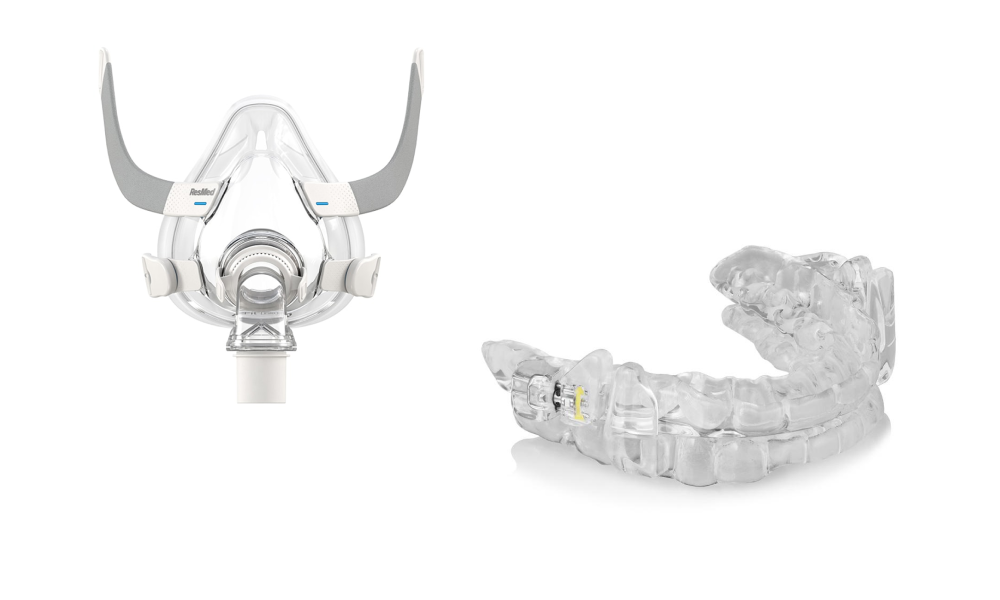
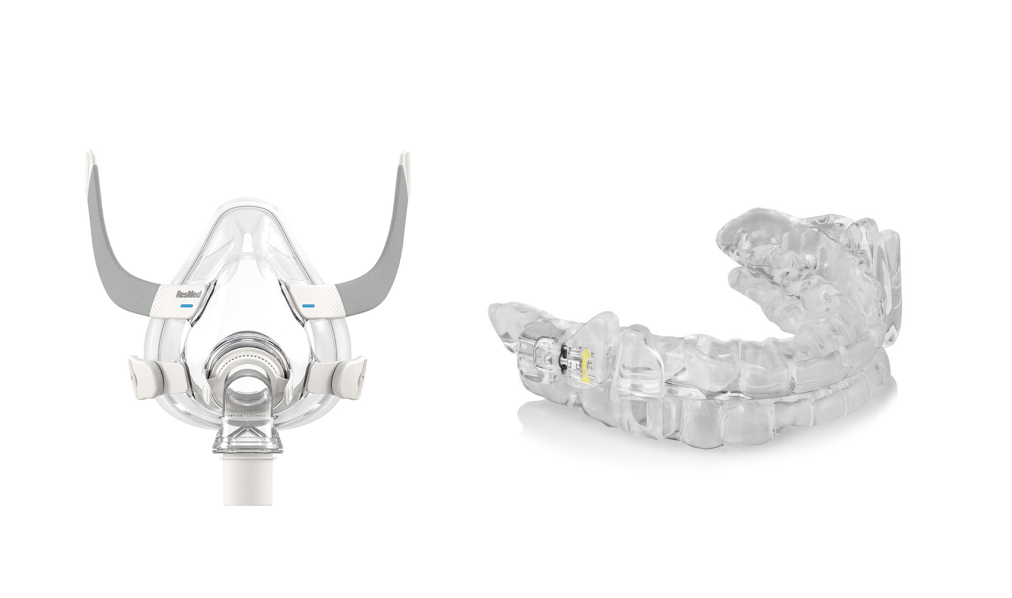
updated 'what is sleep apnea' page

Changed region(s): [[0.062, 0.0903, 0.434, 0.8428], [0.465, 0.3311, 0.899, 0.8428], [0.806, 0.6321, 0.837, 0.6622]]

diff --git a/src/pages/Education.js b/src/pages/Education.js
@@ -22,7 +22,7 @@ export default function Education() {
   return (
     <div className="flex flex-col justify-center items-center">
       {/* Title */}
-      <div className="w-full max-w-[980px] flex flex-col items-center justify-center pt-[64px] lg:pt-[96px] m-[64px] lg:m-[96px] px-[24px] desktop:px-[0px] gap-[20px]">
+      {/* <div className="w-full max-w-[980px] flex flex-col items-center justify-center pt-[64px] lg:pt-[96px] m-[64px] lg:m-[96px] px-[24px] desktop:px-[0px] gap-[20px]">
         <h1 className="lg-display-text font-semibold text-center text-dark">
           Sleep Apnea Education
         </h1>
@@ -30,10 +30,10 @@ export default function Education() {
           A brief overview of sleep apnea and the serious dangers and risks
           associated with the disorder.
         </p>
-      </div>
+      </div> */}
 
       {/* What is Sleep Apnea Section */}
-      <div className="w-full py-[64px] lg:py-[96px] flex items-center justify-center px-[24px] md:px-[56px]">
+      <div className="bg-light-grey-blue w-full mt-[64px] lg:mt-[80px] py-[64px] pb-[140px] lg:pb-[180px] lg:py-[96px] flex items-center justify-center px-[24px] md:px-[56px] relative">
         <div className="max-w-[1280px] w-full flex flex-col-reverse lg:flex-row-reverse items-center justify-center lg:gap-[40px]">
           {/* video */}
           <div className="aspect-video overflow-hidden rounded-md max-w-[640px] w-full mt-[40px] lg:mt-[0px]">
@@ -50,7 +50,7 @@ export default function Education() {
           </div>
           {/* text section */}
           <div className="w-full max-w-[640px] h-full flex flex-col items-start justify-between gap-[24px]">
-            <h3 className="title-text font-semibold text-left text-dark">
+            <h3 className="lg-display-text font-semibold text-left text-dark">
               What is Sleep Apnea?
             </h3>
             <p className="text-paragraph text-dark-grey">
@@ -66,6 +66,20 @@ export default function Education() {
               learn more.
             </p>
           </div>
+        </div>
+
+        <div class="custom-shape-divider-bottom-cost">
+          <svg
+            data-name="Layer 1"
+            xmlns="http://www.w3.org/2000/svg"
+            viewBox="0 0 1200 120"
+            preserveAspectRatio="none"
+          >
+            <path
+              d="M985.66,92.83C906.67,72,823.78,31,743.84,14.19c-82.26-17.34-168.06-16.33-250.45.39-57.84,11.73-114,31.07-172,41.86A600.21,600.21,0,0,1,0,27.35V120H1200V95.8C1132.19,118.92,1055.71,111.31,985.66,92.83Z"
+              class="shape-fill"
+            ></path>
+          </svg>
         </div>
       </div>
 
@@ -143,59 +157,74 @@ export default function Education() {
       </div>
 
       {/* Signs or symptoms Section */}
-      <div className="w-full flex flex-col items-center justify-center py-[64px] lg:py-[96px] px-[24px] md:px-[56px] gap-[64px] bg-white">
-        {/* title */}
-        <div className="w-full h-auto max-w-[640px] lg:max-w-[1280px] pr-[16px] flex flex-col items-center justify-center">
-          <h3 className="title-text font-semibold text-center text-dark">
-            Signs You May Have Sleep Apnea
-          </h3>
-          <p className="text-paragraph text-center mt-[20px] text-dark-grey max-w-[740px]">
-            Sleep apnea can negatively impact daily life. Those with obstructive
-            sleep apnea may experience the following symptoms.
-          </p>
-        </div>
-        {/* checklist */}
-        <div className="w-full max-w-[1280px] flex flex-col-reverse md:flex-row items-center justify-center gap-[40px]">
-          <div className="w-full max-w-[640px] lg:max-w-full flex items-center justify-center gap-[20px] md:gap-[64px] flex-wrap sm:flex-nowrap">
-            <ul className="flex flex-col gap-[20px]">
-              <Checklist content="Loud snoring at night" />
-              <Checklist content="Insomnia with frequent awakenings" />
-              <Checklist content="Choking or gasping in your sleep" />
-              <Checklist content="Daytime sleepiness" />
-            </ul>
-            <ul className="flex flex-col gap-[20px]">
-              <Checklist content="Difficulty concentrating while awake" />
-              <Checklist content="Changes in mood" />
-              <Checklist content="Restlessness during sleep" />
-              <Checklist content="Vivid or threatening dreams" />
-            </ul>
+      <div className="w-full flex items-center justify-center px-[24px] md:px-[56px]">
+        <div className="flex flex-col lg:flex-row-reverse items-center lg:items-start justify-between w-full max-w-[640px] lg:max-w-[1280px]">
+          <div className="max-w-[640px] w-full flex flex-col items-start justify-center py-[64px] lg:py-[96px] gap-[64px] bg-white">
+            {/* title */}
+            <div className="w-full h-auto max-w-[640px] pr-[16px] flex flex-col items-start justify-center">
+              <h3 className="title-text font-semibold text-left text-dark">
+                Signs You May Have{" "}
+                <span className="inline-block">Sleep Apnea</span>
+              </h3>
+              <p className="text-paragraph text-left mt-[20px] text-dark-grey max-w-[640px]">
+                Sleep apnea can negatively impact daily life. Those with
+                obstructive sleep apnea may experience the following symptoms.
+              </p>
+            </div>
+            {/* checklist */}
+            <div className="w-full max-w-[640px] flex flex-col-reverse md:flex-row items-center justify-center gap-[40px]">
+              <div className="w-full max-w-[640px] lg:max-w-full flex items-center justify-start gap-[20px] md:gap-[64px] flex-wrap sm:flex-nowrap">
+                <ul className="flex flex-col gap-[20px]">
+                  <Checklist content="Loud snoring at night" />
+                  <Checklist content="Insomnia with frequent awakenings" />
+                  <Checklist content="Choking or gasping in your sleep" />
+                  <Checklist content="Daytime sleepiness" />
+                </ul>
+                <ul className="flex flex-col gap-[20px]">
+                  <Checklist content="Difficulty concentrating while awake" />
+                  <Checklist content="Changes in mood" />
+                  <Checklist content="Restlessness during sleep" />
+                  <Checklist content="Vivid or threatening dreams" />
+                </ul>
+              </div>
+            </div>
+          </div>
+          {/* image */}
+          <div className="overflow-hidden rounded-md max-w-[600px] w-full mt-[0px] lg:mt-[80px] px-[0px] md:px-[24px]">
+            <img
+              className="object-fill"
+              src="./assets/signs.png"
+              alt="man snoring loudly in bed"
+            ></img>
           </div>
         </div>
       </div>
 
       {/* Risks Section */}
-      <div className="w-full flex justify-center items-center py-[64px] lg:py-[96px]">
-        <div className="bg-light-grey-blue w-full max-w-[1280px] flex flex-col lg:flex-row items-center justify-center py-[48px] md:py-[56px] px-[24px] md:px-[56px] desktop:rounded-md gap-[64px]">
-          {/* title */}
-          <div className="w-full h-auto max-w-[640px] lg:max-w-[1280px] pr-[16px]">
-            <h3 className="title-text font-semibold text-left text-dark">
-              Risks of Untreated{" "}
-              <span className="inline-block">Sleep Apnea</span>
-            </h3>
-            <p className="text-paragraph text-dark-grey max-w-[640px] mt-[20px]">
-              Sleep apnea is a common sleep disorder that can be fairly
-              dangerous if left untreated. It is often linked with increasing
-              the risk of other serious conditions such as cardiovascular
-              disease and diabetes, as well as increasing the risk of being
-              involved in potentially life threatening automobile accidents due
-              to sleep deprivation. If you believe you have sleep apnea, contact
-              your doctor as soon as possible.
-            </p>
-          </div>
-          {/* checklist */}
-          <div className="w-full max-w-[1280px] flex flex-col-reverse md:flex-row items-center justify-center gap-[40px]">
-            <div className="w-full max-w-[640px] lg:max-w-full flex items-center justify-between gap-[20px] md:gap-[64px] flex-wrap sm:flex-nowrap">
-              {/* <p className="text-paragraph text-dark-grey max-w-[640px]">
+      <div className="w-full flex items-center justify-center px-[24px] md:px-[56px]">
+        <div className="w-full flex justify-center items-center py-[64px] lg:py-[96px]">
+          <div className="w-full flex flex-col lg:flex-row justify-between items-center max-w-[1280px]">
+            <div className="w-full max-w-[640px] flex flex-col lg:flex-col items-center justify-center py-[48px] md:py-[56px] desktop:rounded-md gap-[64px]">
+              {/* title */}
+              <div className="w-full h-auto max-w-[640px]">
+                <h3 className="title-text font-semibold text-left text-dark">
+                  Risks of Untreated{" "}
+                  <span className="inline-block">Sleep Apnea</span>
+                </h3>
+                <p className="text-paragraph text-dark-grey max-w-[640px] mt-[20px]">
+                  Sleep apnea is a common sleep disorder that can be fairly
+                  dangerous if left untreated. It is often linked with
+                  increasing the risk of other serious conditions such as
+                  cardiovascular disease and diabetes, as well as increasing the
+                  risk of being involved in potentially life threatening
+                  automobile accidents due to sleep deprivation. If you believe
+                  you have sleep apnea, contact your doctor as soon as possible.
+                </p>
+              </div>
+              {/* checklist */}
+              <div className="w-full max-w-[1280px] flex flex-col-reverse md:flex-row items-center justify-center gap-[40px]">
+                <div className="w-full max-w-[640px] lg:max-w-full flex items-center justify-between gap-[20px] md:gap-[64px] flex-wrap sm:flex-nowrap">
+                  {/* <p className="text-paragraph text-dark-grey max-w-[640px]">
               Sleep apnea is a common sleep disorder that can be fairly
               dangerous if left untreated. It is often linked with increasing
               the risk of other serious conditions such as cardiovascular
@@ -204,31 +233,44 @@ export default function Education() {
               to sleep deprivation. If you believe you have sleep apnea, contact
               your doctor as soon as possible.
             </p> */}
-              <ul className="flex flex-col gap-[20px]">
-                <Checklist content="Daytime fatigue" />
-                <Checklist content="High blood pressure" />
-                <Checklist content="Heart attack" />
-                <Checklist content="Cardiovascular disease " />
-                <Checklist content="Diabetes" />
-                <Checklist content="Workplace accidents" />
-                <Checklist content="Automobile accidents" />
-                <Checklist content="Stroke" />
-              </ul>
-              {/* <ul className="flex flex-col gap-[20px]">
+                  <ul className="flex flex-col gap-[20px]">
+                    <Checklist content="Daytime fatigue" />
+                    <Checklist content="High blood pressure" />
+                    <Checklist content="Heart attack" />
+                    <Checklist content="Cardiovascular disease " />
+                  </ul>
+                  <ul className="flex flex-col gap-[20px]">
+                    <Checklist content="Diabetes" />
+                    <Checklist content="Workplace accidents" />
+                    <Checklist content="Automobile accidents" />
+                    <Checklist content="Stroke" />
+                  </ul>
+                  {/* <ul className="flex flex-col gap-[20px]">
             </ul> */}
+                </div>
+              </div>
+            </div>
+            {/* image */}
+            <div className="overflow-hidden rounded-md max-w-[500px] w-full mt-[0px] lg:mt-[0px] px-[24px]">
+              <img
+                className="object-fill"
+                src="./assets/risks.png"
+                alt="doctor checking on patients health"
+              ></img>
             </div>
           </div>
         </div>
       </div>
 
       {/* Treatment Options Section */}
-      <div className="w-full py-[64px] lg:py-[96px] flex items-center justify-center px-[24px] md:px-[56px]">
+      <div className="bg-light-grey-blue w-full py-[120px] lg:py-[180px] flex items-center justify-center px-[24px] md:px-[56px] relative">
         <div className="max-w-[1280px] w-full flex flex-col-reverse lg:flex-row items-center justify-between lg:gap-[40px]">
           {/* image */}
           <div className="overflow-hidden rounded-md max-w-[500px] w-full mt-[40px] lg:mt-[0px]">
             <img
               className="object-fill"
               src="./assets/treatment-options.png"
+              alt="sleep apnea treatment options"
             ></img>
           </div>
           {/* text section */}
@@ -249,6 +291,34 @@ export default function Education() {
               appliance to alleviate your sleep apnea.
             </p>
           </div>
+        </div>
+
+        <div class="custom-shape-divider-top-cost">
+          <svg
+            data-name="Layer 1"
+            xmlns="http://www.w3.org/2000/svg"
+            viewBox="0 0 1200 120"
+            preserveAspectRatio="none"
+          >
+            <path
+              d="M985.66,92.83C906.67,72,823.78,31,743.84,14.19c-82.26-17.34-168.06-16.33-250.45.39-57.84,11.73-114,31.07-172,41.86A600.21,600.21,0,0,1,0,27.35V120H1200V95.8C1132.19,118.92,1055.71,111.31,985.66,92.83Z"
+              class="shape-fill"
+            ></path>
+          </svg>
+        </div>
+
+        <div class="custom-shape-divider-bottom-cost">
+          <svg
+            data-name="Layer 1"
+            xmlns="http://www.w3.org/2000/svg"
+            viewBox="0 0 1200 120"
+            preserveAspectRatio="none"
+          >
+            <path
+              d="M985.66,92.83C906.67,72,823.78,31,743.84,14.19c-82.26-17.34-168.06-16.33-250.45.39-57.84,11.73-114,31.07-172,41.86A600.21,600.21,0,0,1,0,27.35V120H1200V95.8C1132.19,118.92,1055.71,111.31,985.66,92.83Z"
+              class="shape-fill"
+            ></path>
+          </svg>
         </div>
       </div>
 

diff --git a/tailwind.config.js b/tailwind.config.js
@@ -13,6 +13,7 @@ module.exports = {
       dark: "#27365A",
       "dark-grey": "#455A8D",
       "primary-blue-hover": "#4D5DED",
+      "dark-blue": "#2B3ABD",
     },
     backgroundImage: {
       "hero-pattern": "url('/public/assets/heroBg.svg')",
